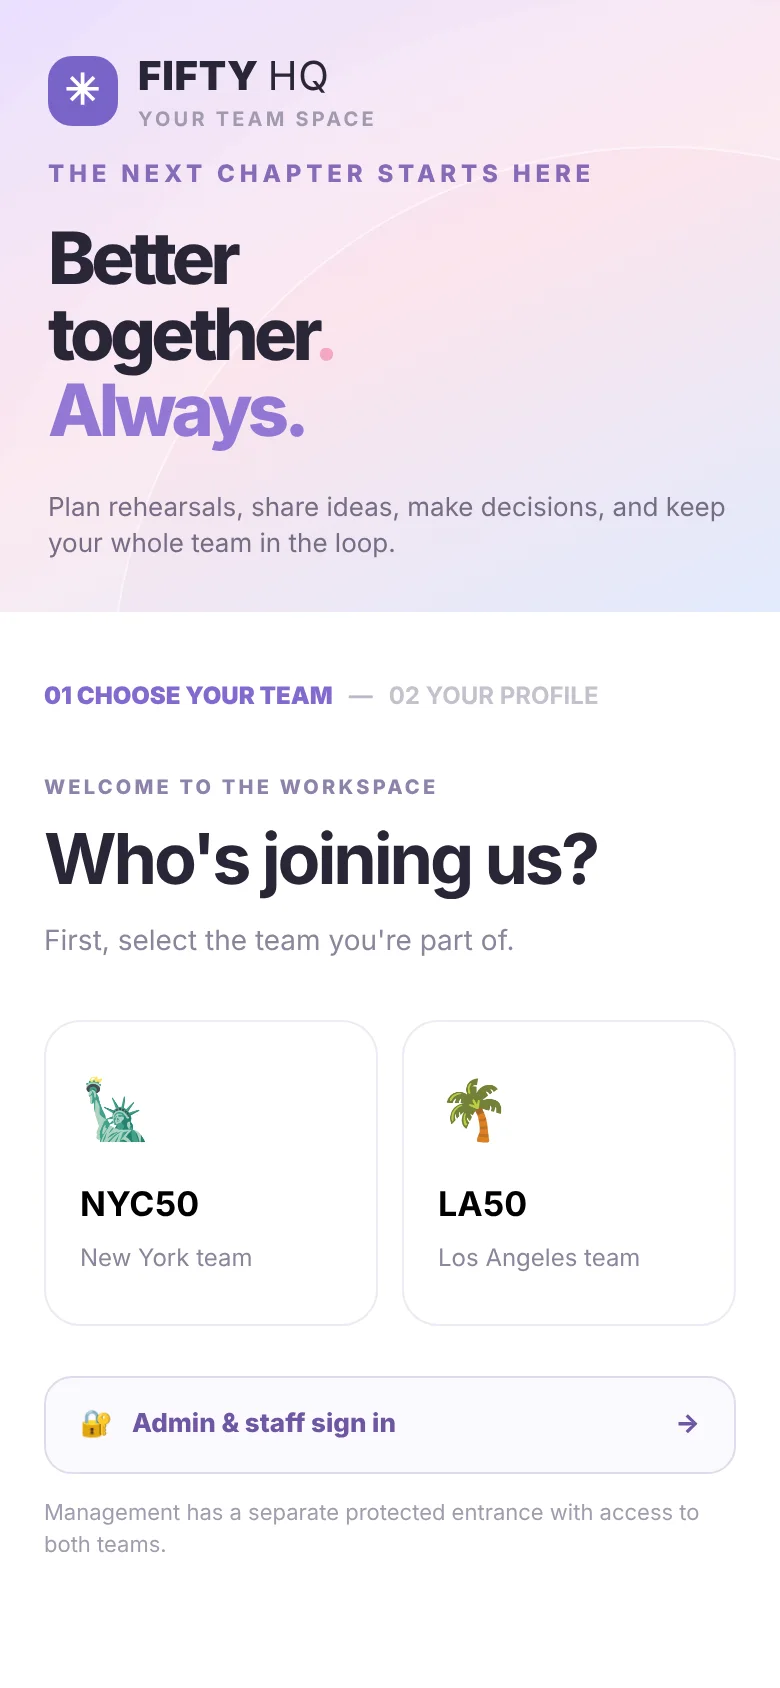
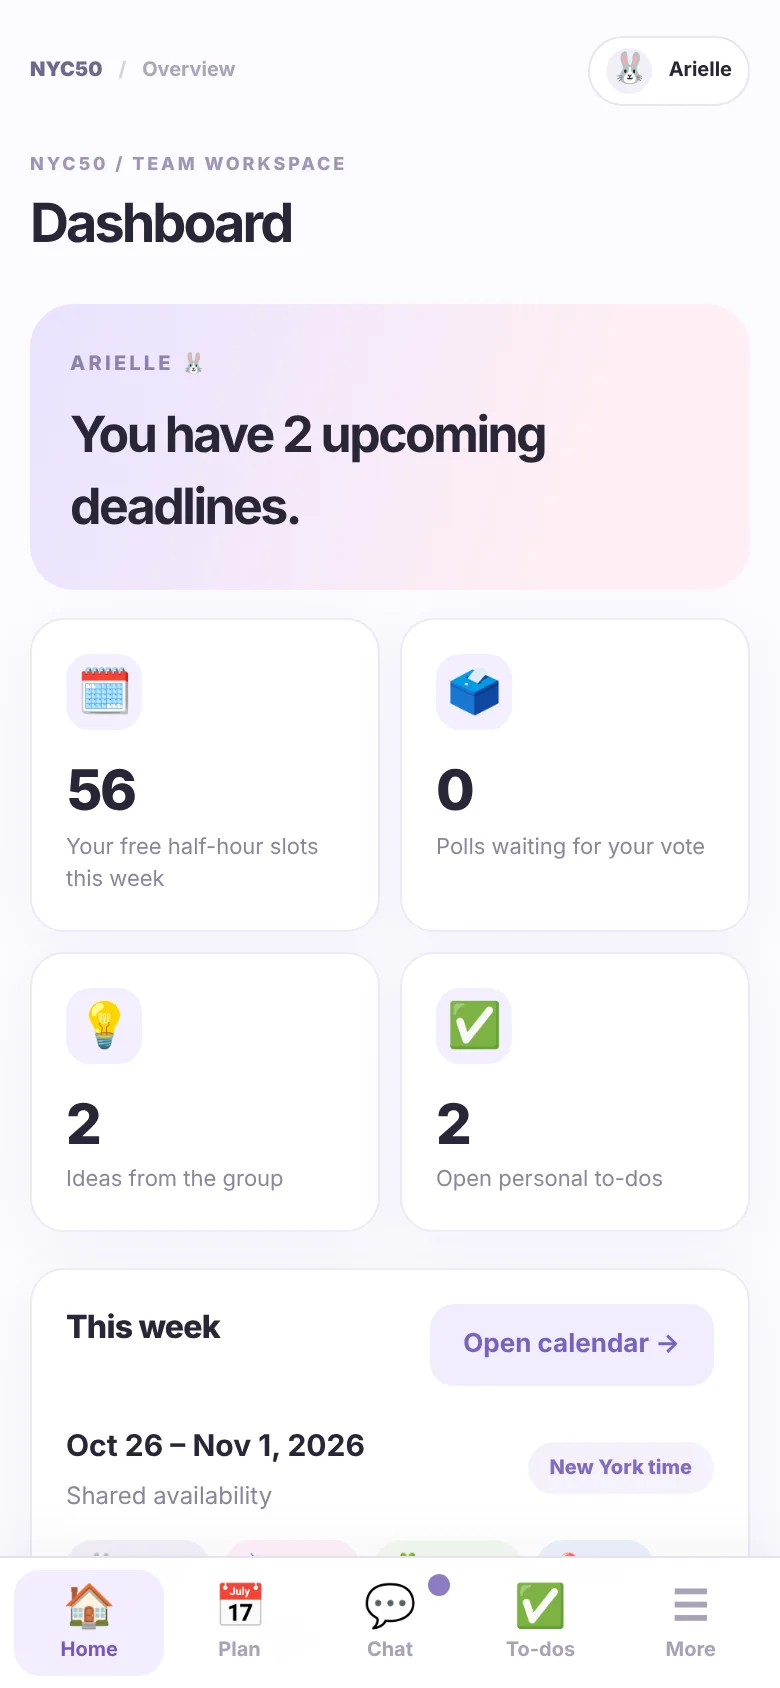
.

diff --git a/index.html b/index.html
@@ -18,8 +18,8 @@
     <link rel="preconnect" href="https://fonts.googleapis.com">
     <link rel="preconnect" href="https://fonts.gstatic.com" crossorigin>
     <link href="https://fonts.googleapis.com/css2?family=Raleway:ital,wght@0,100..900;1,100..900&family=Space+Grotesk:wght@300..700&display=swap" rel="stylesheet">
-    <link rel="stylesheet" href="styles.css?v=4">
-    <script src="script.js?v=4" defer></script>
+    <link rel="stylesheet" href="styles.css?v=5">
+    <script src="script.js?v=5" defer></script>
 </head>
 <body>
 
@@ -251,17 +251,24 @@
         </div>
 
         <article class="feature">
-            <div class="feature-shots">
-                <img class="feature-desk" src="images/web/fifty-hq.webp" alt="FIFTY HQ sign-in screen on desktop" width="1400" height="875" loading="lazy">
-                <img class="feature-phone" src="images/web/fifty-hq-mobile.webp" alt="FIFTY HQ team picker on a phone" width="780" height="1688" loading="lazy">
-            </div>
+            <a class="feature-shots" href="https://fifty-hq-production.up.railway.app/" target="_blank" rel="noopener">
+                <img class="feature-desk" src="images/web/fifty-hq.webp" alt="FIFTY HQ dashboard on desktop" width="1400" height="875" loading="lazy">
+                <img class="feature-phone" src="images/web/fifty-hq-mobile.webp" alt="FIFTY HQ dashboard on a phone" width="780" height="1688" loading="lazy">
+            </a>
             <div class="feature-copy">
                 <p class="feature-kicker">Full-stack build</p>
                 <h3>FIFTY HQ</h3>
                 <p>An installable, mobile-first team workspace I designed and built for the NYC50, LA50 and USA50 groups. Members mark weekly practice and meeting availability on shared calendars, manage to-dos, vote in polls, read announcements, and chat in team, staff and direct-message channels with text formatting, photos, GIFs and push notifications.</p>
                 <p class="feature-stack">Python · SQLite · JavaScript · PWA · Web Push</p>
+                <a class="feature-link" href="https://fifty-hq-production.up.railway.app/" target="_blank" rel="noopener">Open FIFTY HQ ↗</a>
             </div>
         </article>
+        <div class="feature-views">
+            <figure><img src="images/web/fifty-hq-availability.webp" alt="Shared availability calendar" width="1000" height="625" loading="lazy"><figcaption>Shared availability</figcaption></figure>
+            <figure><img src="images/web/fifty-hq-chat.webp" alt="Team chat with channels and direct messages" width="1000" height="625" loading="lazy"><figcaption>Team chat</figcaption></figure>
+            <figure><img src="images/web/fifty-hq-polls.webp" alt="Group poll with hidden results until everyone votes" width="1000" height="625" loading="lazy"><figcaption>Group polls</figcaption></figure>
+            <figure><img src="images/web/fifty-hq-todos.webp" alt="Personal to-do list with assigned tasks" width="1000" height="625" loading="lazy"><figcaption>To-dos</figcaption></figure>
+        </div>
 
         <h3 class="subhead">More web builds</h3>
         <div class="web-row">

diff --git a/styles.css b/styles.css
@@ -172,6 +172,13 @@ mark { background: var(--electric-blue); color: var(--teal); padding: 0 .15em; }
 .feature-copy h3 { font-family: var(--grotesk); font-style: italic; font-weight: 500; font-size: clamp(30px, 3.4vw, 50px); color: var(--electric-blue); margin: .15em 0 .4em; }
 .feature-copy p { font-size: clamp(15px, 1.2vw, 18px); line-height: 1.6; }
 .feature-stack { font-family: var(--grotesk); margin-top: 1em; opacity: .8; }
+.feature-shots { display: block; }
+.feature-link { display: inline-block; margin-top: 1.2em; font-family: var(--grotesk); font-weight: 500; font-size: clamp(16px, 1.3vw, 20px); color: var(--electric-blue); text-decoration: none; border-bottom: 2px solid currentColor; }
+.feature-link:hover { color: var(--pink); }
+.feature-views { display: grid; grid-template-columns: repeat(4, 1fr); gap: 2vw; margin-top: clamp(48px, 6vw, 80px); }
+.feature-views figure { margin: 0; }
+.feature-views img { width: 100%; box-shadow: 0 .6vw 1.6vw rgba(0,0,0,.35); }
+.feature-views figcaption { font-family: var(--grotesk); font-size: 14px; margin-top: 10px; opacity: .85; }
 
 .proj { display: grid; grid-template-columns: 1fr 1fr; gap: 3vw; align-items: start; margin-bottom: clamp(36px, 4vw, 64px); }
 .proj img { max-width: 100%; max-height: 620px; width: auto; justify-self: start; }
@@ -269,6 +276,7 @@ mark { background: var(--electric-blue); color: var(--teal); padding: 0 .15em; }
     .ui-item--wide { grid-column: 1 / -1; }
     .web-row { grid-template-columns: 1fr; gap: 28px; }
     .feature { grid-template-columns: 1fr; gap: 40px; }
+    .feature-views { grid-template-columns: 1fr 1fr; gap: 20px; }
     .proj, .proj--flip { grid-template-columns: 1fr; }
     .proj--flip img { order: 0; }
     .proj img, .proj--flip img { max-height: 520px; justify-self: center; }
